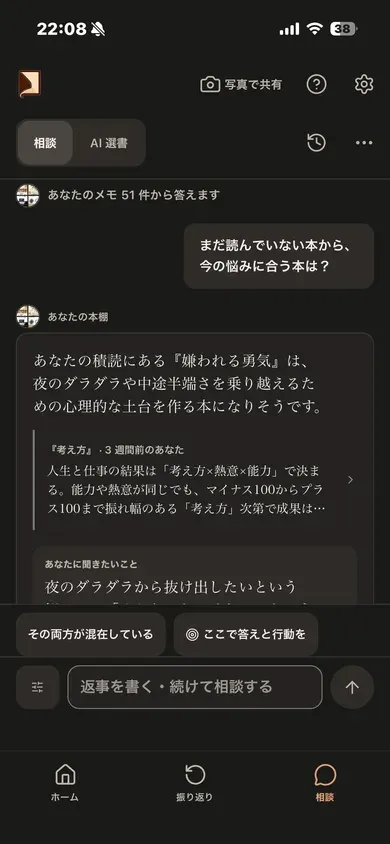
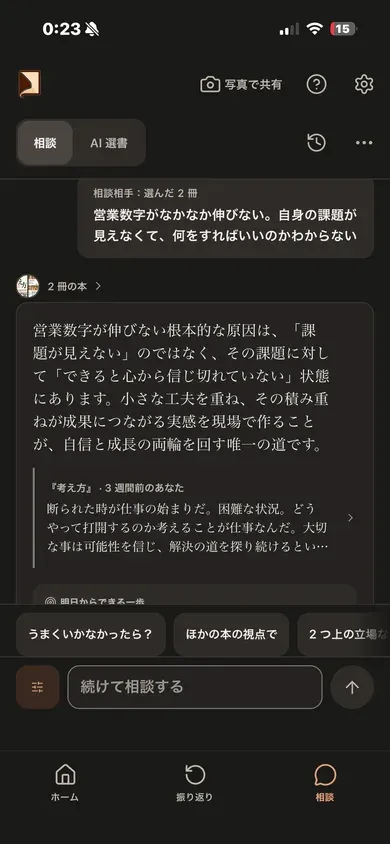
feat: LP の使い方を実際の 1 つの相談の流れに（本に相談する → メモを根拠に AI が答える → 明日の一歩が決まる）
Claude-Session: https://claude.ai/code/session_01CJtCb5D8mXkG5XEeRMX4M7

diff --git a/src/pages/LpFlow.jsx b/src/pages/LpFlow.jsx
@@ -16,24 +16,24 @@ import Phrases from './LpPhrases';
 import Shot from './LpShot';
 
 export const FLOW_STEPS = [
-  {
-    name: 'flow-line',
-    title: '一行メモを残す', // 3 枚の題は動詞でそろえる（ui-critic 2026-11-11）
-    body: '読みながら、引っかかった一行を書いておきます。',
-    alt: '『レバレッジ・リーディング』（読了・★5）の本の詳細。メモ 20 件の一覧と、10/17 の一行「問題解決のヒントを探すと言うはっきりした目的意識があったので、余計なところ読まずに済み。ポイントを拾うのが早くなりました。」',
-  },
+  // 2026-11-11 オーナー「この流れを見せたいな」: 実際の 1 つの相談を 3 枚で（相談 → 本の考え方で答える・聞き返し → 本をまとめた答え → 明日からできる一歩）
   {
     name: 'flow-talk',
     title: '本に相談する',
-    body: '悩みをそのまま送ります。1 冊にも、本棚の本ぜんぶにも聞けます。',
-    alt: '相談の最初の画面。「あなたのメモ 51 件から答えます」「困っていることを、相談してください」と、たとえばの相談 3 つ、相談相手「すべての本」と答え方「まとめて」の選択、入力欄',
+    body: '悩みをそのまま送ります。相談相手は 1 冊でも、何冊かでも。',
+    alt: '相談の画面。相談相手を選んだ 2 冊にして「仕事に対して自信が持てなくなってきた時はどうすればいい？」と送ると、稲盛和夫『考え方』が「自信の喪失は、「できると信じ切る」という心の土台が揺らいでいるサインです」と答え、根拠に 3 週間前のメモ、「あなたに聞きたいこと」の問いが続く',
   },
   {
     name: 'flow-voice',
-    // 2026-11-11: 3 枚目の実際の画面は本棚ぜんぶからの答え（根拠は 3 週間前のメモ）なので、題を画面に合わせた（前は「その本の口調で、AI が答える」）
     title: 'メモを根拠に、AI が答える',
-    body: '何週間も前のメモまで根拠にして答え、いきなり結論は出さずに、まず状況を聞いてきます。',
-    alt: '相談の答え。「まだ読んでいない本から、今の悩みに合う本は？」に、あなたの本棚から『嫌われる勇気』をすすめる答えと、根拠になった『考え方』の 3 週間前のメモ、「あなたに聞きたいこと」の問い。入力欄の上に答えの候補のチップ',
+    body: 'いきなり結論は出さず、まず状況を聞き、本の考え方で答えます。',
+    alt: '2 冊の本をまとめた答え。「営業数字が伸びない根本的な原因は、課題が見えないのではなく、できると心から信じ切れていない状態にあります」と、根拠になった『考え方』の 3 週間前のメモ',
+  },
+  {
+    name: 'flow-step',
+    title: '明日の一歩が決まる',
+    body: '答えの最後に、明日からできる一歩。押せば行動リストに入ります。',
+    alt: '答えの最後の「明日からできる一歩」。営業活動の前日の夜と当日の朝の計 10 分間で試す工夫を手帳に書き、営業後に 3 行メモして 1 週間続ける。下に「行動に追加」のボタンと「あなたのメモ 4 件から答えました」',
   },
 ];
 

diff --git a/src/pages/Landing.jsx b/src/pages/Landing.jsx
@@ -112,7 +112,7 @@ const TESTIMONIALS = [];
 //   1 回だけ順に切り替えて、最後の答えの画面で止まる（2026-10-12 ui-critic「会話が動いて見える瞬間」）。
 //   動きを減らす設定では、最初から答えの画面だけ。画面はどれも npm run lp:shots の実際のアプリ。
 const HERO_MINI = [
-  { name: 'flow-line', alt: '本の詳細のメモの一覧。今日残した一行' },
+  { name: 'flow-step', alt: '答えの最後の「明日からできる一歩」と「行動に追加」' },
   { name: 'flow-talk', alt: '相談相手を選ぶ画面「誰に相談しますか？」' },
   { name: 'hero', alt: '相談の画面。『嫌われる勇気』の 1 冊に相談し、その本の考え方で答えが返ってきている' },
 ];

diff --git a/src/pages/lpCopy.test.js b/src/pages/lpCopy.test.js
@@ -229,6 +229,7 @@ describe('「その本の考え方で答える」にそろえる', () => {
     // コメント（// と {/* */}）は見ない＝経緯に前の言葉が残る
     const flow = readFileSync(new URL('./LpFlow.jsx', import.meta.url), 'utf8').replace(/\{\/\*[\s\S]*?\*\/\}/g, '').replace(/^\s*\/\/.*$/gm, '').replace(/\/\/[^'\n]*$/gm, '');
     expect(flow).toContain("title: 'メモを根拠に、AI が答える'");
+    expect(flow).toContain("title: '明日の一歩が決まる'");
     expect(flow).not.toMatch(/語り口|口調/);
     for (const t of [LP_DESCRIPTION, LP_OG_DESCRIPTION, JSON.stringify(buildLpCopy({}).faq)]) {
       expect(t).not.toMatch(/語り口|口調/);

diff --git a/SPEC.md b/SPEC.md
@@ -242,6 +242,7 @@
 - **役割（1 文）**：「**読んだ本と、会話しよう。**」を実画面（1 冊の本に相談し、本の語り口で答えている所）で見せて、App Store から入手してもらう。相手は読書の成果を最大にしたい人・読書を習慣にしたい人・意識の高い社会人・大学生（立場では絞らない・チーム向けは書かない）。「著者と話せる」とは書かず「本の語り口で答える」「本と会話する」まで。語り口の注記（「答えは、AI が本とあなたのメモから語り口をまねたもので、著者本人の言葉ではありません。」）はヒーローの写真の下の 1 か所（`lpCopy.js` の `VOICE_NOTE`・FAQ にも）。
 - **最重要アクション**：「無料プランで始める」（押すと App Store・全部同じ行動・ヒーロー／0 日目／料金／最後。スマホはヒーローのボタンが外れたら下に固定、広い画面はヘッダーに。本文の中の同じボタンが見えている間は固定とヘッダーのボタンを隠す＝主ボタンを 2 つ並べない）。**既定は公開済みの形**で、`VITE_APP_STORE_URL` があればアプリのページ（`ct=` 付き）、無いビルドでは日本の App Store の「Orime」の検索（`APP_STORE_SEARCH_URL`）。**公開前の形は `VITE_LP_PRELAUNCH=on` のときだけ**：押せないボタンも下の固定の帯も出さず、同じ 4 か所に「公開の日に、メールでお知らせします」（`LpWaitlist.jsx`→`api/lp-waitlist.js`・ヒーローと最後は欄の上に公開予定の 1 行・欄の下に 13/`--text-2` でメールの使い道＋「プライバシーポリシー」・送ったら ✓「公開の日にお知らせします。」・失敗は `--error` の 1 行）と FAQ「いつから使えますか？」。ヘッダーに「ログイン」は置かない（2026-10-11 オーナー「アプリでしか使わない想定なので App Store へ流すボタンに」・管理者は `/?auth=signin` を直接開く）＝ヘッダーはロゴと、広い画面でヒーローのボタンが外れたあとの「無料プランで始める」1 つ（スマホは下の固定の帯）。フッターのリンク（利用規約・プライバシーポリシー・特商法・お問い合わせ）は文字ボタン（`--accent`・600）。
 - **言葉（2026-11-11 オーナー「その本の口調で、AI が答える という日本語が違和感」）**: LP の文では「口調」「語り口」を使わず「その本の考え方で答える」（説明文・OG・よくある質問の 1 問目は「AI は、何をもとに答えますか？」（2026-11-11 仕上げ・答えは「あなたがその本に残したメモです。…その本の考え方と言い回しに寄せて答えます」）・`lpCopy.test.js`）。ヒーロー（talk）の広い画面は列を 1 : 1 にして文と絵を上下の中央でそろえ、絵は右の列いっぱい（同日仕上げ）。アプリの中の「（本の語り口で・AI）」はそのまま。
+- **使い方の 3 枚（2026-11-11 深夜・オーナー「この流れを見せたいな」）**: 実際の 1 つの相談を 3 枚で＝本に相談する（相談相手 2 冊・『考え方』が本の考え方で答えて聞き返す）→ メモを根拠に、AI が答える（2 冊をまとめた答え＋根拠のメモ）→ 明日の一歩が決まる（明日からできる一歩＋「行動に追加」）。画像は `flow-talk` / `flow-voice` / `flow-step`（オーナーの実際の画面）。前の 1 枚目「一行メモを残す」（本の詳細）はやめた＝メモはヒーローの補足で分かる。
 - **使い方・ほかにできること（2026-11-11 深夜・同じ指示）**: 使い方の 3 枚の題に番号の丸（AI 選書の 4 段と同じ `--fill` の丸・本当に順番がある 3 つ）。ほかにできることは 5 枚とも題＋1 行の説明（`body`・前は題だけで形が不ぞろいだった）。
 - **料金（2026-11-11 深夜・オーナー「プランへ がわかりにくい・そのほか全て UI/UX を改善」）**: リードは「本とメモの記録は、ずっと無料。」「AI への相談をたくさん使うなら、月額・年額プラン。」（何が無料で何が有料かを言い切る・「プランへ」はやめた）。「月 ¥1,480 は、本 1 冊分。」の帯は 2 枚のカードの**あと**（無料と有料の違いを見てから値段の意味・文は 2 文に短く）→ 創業メンバー価格の帯。無料プランの箇条書きは 1 行に詰めず（26em・行間 1.6・「はじめの 2 か月は」は改行して `--text-2`）。
 - **仕上げ（2026-11-11 深夜・オーナー「仕上げて時間かけて」・ui-critic 前半 16/18/16/14/17・後半 19/16/19/19/19 の指摘を入れた）**: 同じことを 4 回言わない＝ヒーロー 2 行目は「迷ったら、その本がメモをもとに答えます。」（1 行に）・「使い方は、3 つだけ。」の補足はやめ、3 枚の題は動詞で「一行メモを残す／本に相談する／メモを根拠に、AI が答える」・「著者には聞けない」の補足は「相談する相手は、1 冊でも、何冊かでも、本棚ぜんぶでも。」だけ・語は「相談」に統一（ヒーローのリンクは「使い方を見る」・なぜ残るの補足と凡例も「相談」）。見た目＝著者には聞けないは 3 つの箱をやめて線で区切る（栗色の面もやめる）・なぜ残るは左ぞろえで 3 つの言葉は塗りのチップにしない（明朝 20/600 の並び）・「月 ¥1,480 は、本 1 冊分。」の帯は料金の見出しの直下へ（無料プランしか知らない位置で値段を出さない）・ほかにできることは PC の下段を左詰め・スマホは 76vw で隣が見える・AI 選書の写真の上 24・料金は 7 日間無料の札を月額の行へ・年額の条件 3 行をやめて帯の 価格（まとめ払い）・ご注意（同じ Apple ID）に 1 回・物差しは「月に本 1 冊ほど」（1 日あたりはやめた）・期間中の主ボタンは「App Store でプランを始める」・自動更新の説明は 13・創業メンバー価格の文字リンクは `--text-2`/400・よくある質問は「Android・パソコン」を 4 番目に・フッターのリンクは下線（押せる印）。
